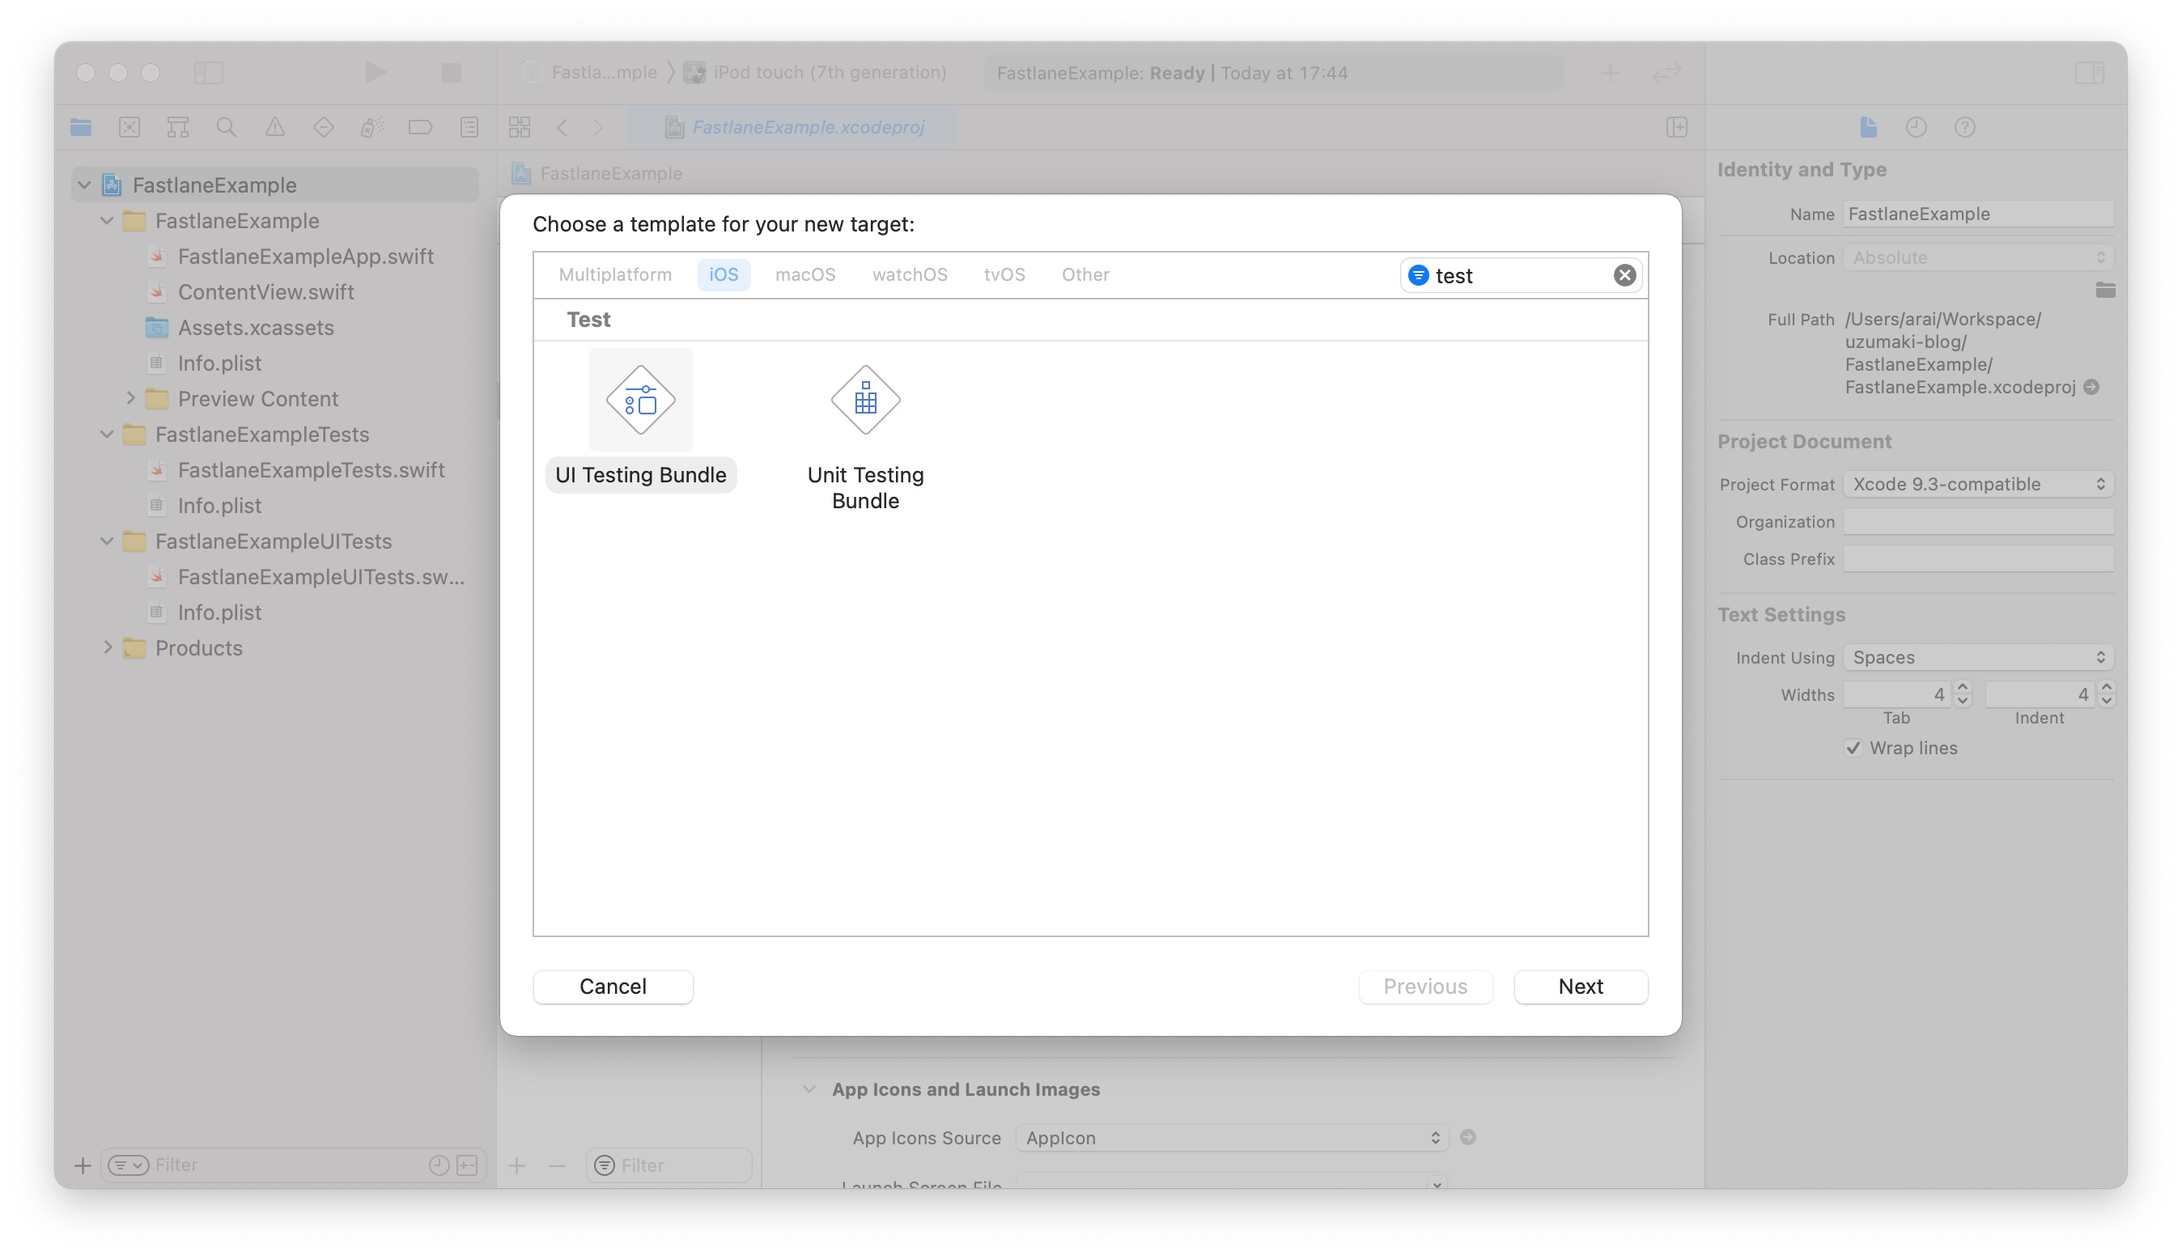
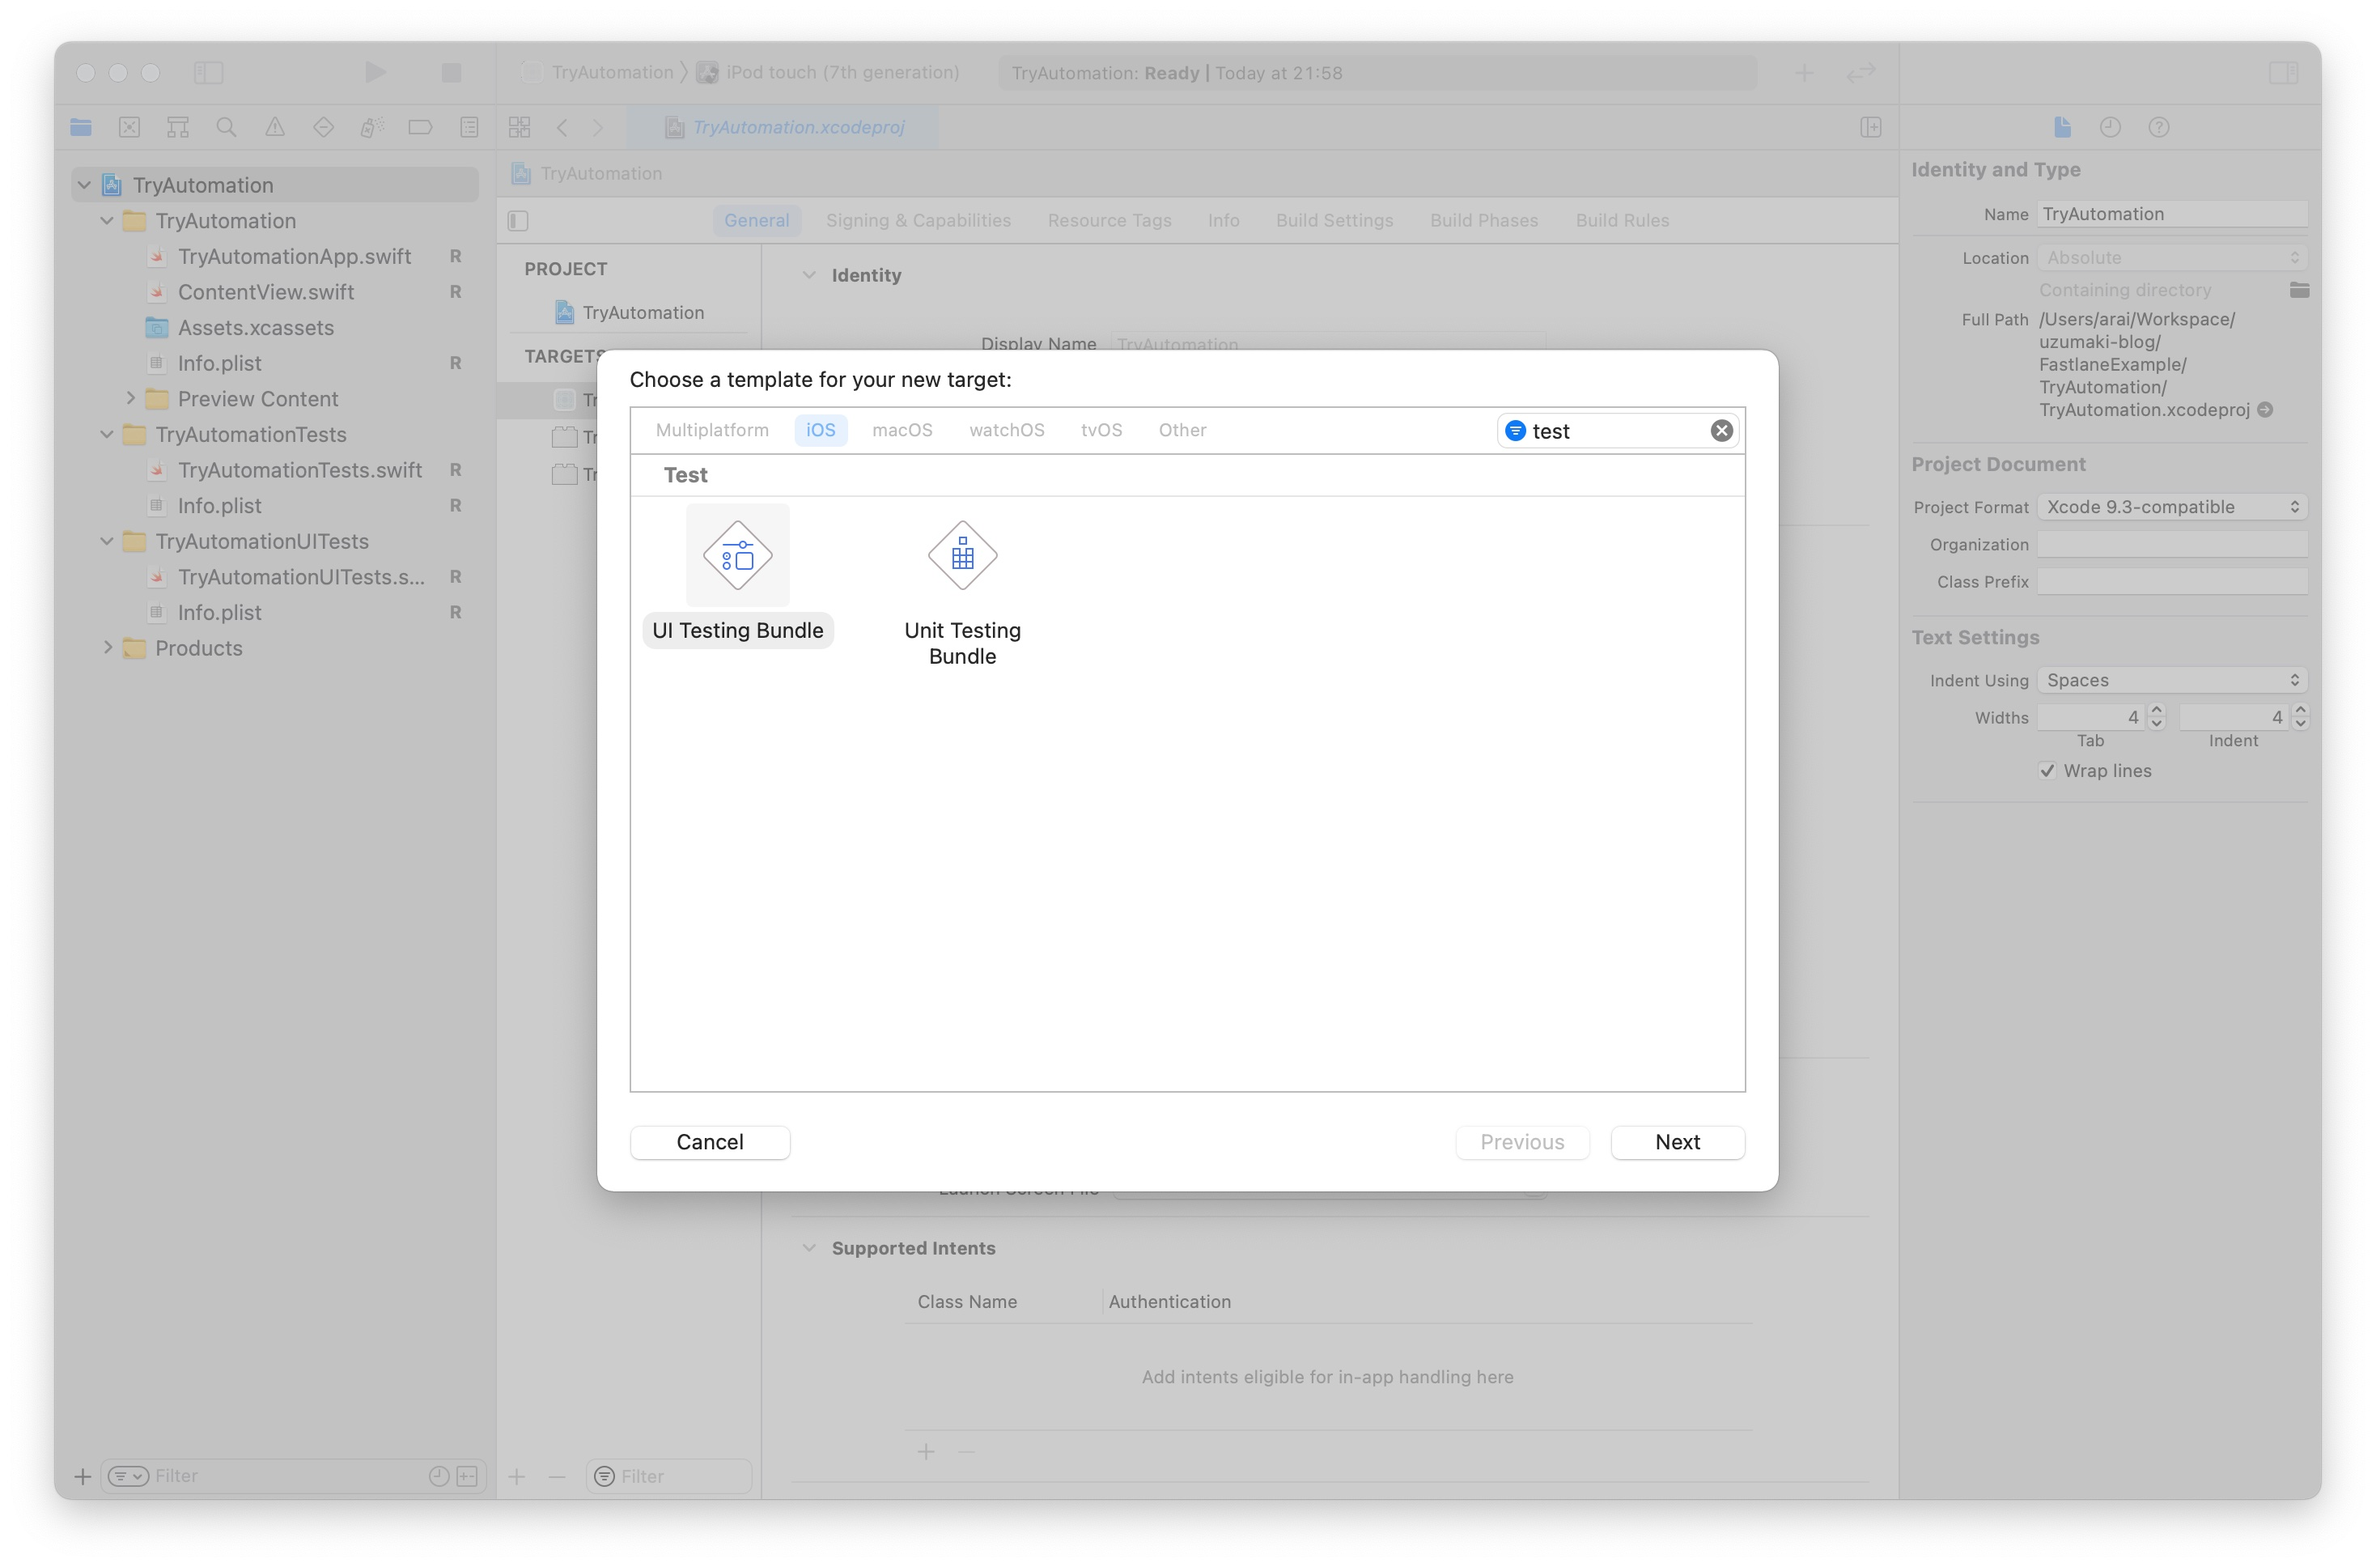
rename xcode project

diff --git a/TryAutomationTests/TryAutomationTests.swift b/TryAutomationTests/TryAutomationTests.swift
@@ -1,14 +1,14 @@
 //
-//  FastlaneExampleTests.swift
-//  FastlaneExampleTests
+//  TryAutomationTests.swift
+//  TryAutomationTests
 //
-//  Created by arai on 2021/09/25.
+//  Created by arai on 2021/10/10.
 //
 
 import XCTest
-@testable import FastlaneExample
+@testable import TryAutomation
 
-class FastlaneExampleTests: XCTestCase {
+class TryAutomationTests: XCTestCase {
 
     override func setUpWithError() throws {
         // Put setup code here. This method is called before the invocation of each test method in the class.

diff --git a/TryAutomationUITests/TryAutomationUITests.swift b/TryAutomationUITests/TryAutomationUITests.swift
@@ -1,13 +1,13 @@
 //
-//  FastlaneExampleUITests.swift
-//  FastlaneExampleUITests
+//  TryAutomationUITests.swift
+//  TryAutomationUITests
 //
-//  Created by arai on 2021/09/25.
+//  Created by arai on 2021/10/10.
 //
 
 import XCTest
 
-class FastlaneExampleUITests: XCTestCase {
+class TryAutomationUITests: XCTestCase {
 
     override func setUpWithError() throws {
         // Put setup code here. This method is called before the invocation of each test method in the class.

diff --git a/TryAutomation/TryAutomationApp.swift b/TryAutomation/TryAutomationApp.swift
@@ -1,14 +1,14 @@
 //
-//  FastlaneExampleApp.swift
-//  FastlaneExample
+//  TryAutomationApp.swift
+//  TryAutomation
 //
-//  Created by arai on 2021/09/25.
+//  Created by arai on 2021/10/10.
 //
 
 import SwiftUI
 
 @main
-struct FastlaneExampleApp: App {
+struct TryAutomationApp: App {
     var body: some Scene {
         WindowGroup {
             ContentView()

diff --git a/TryAutomation/ContentView.swift b/TryAutomation/ContentView.swift
@@ -1,8 +1,8 @@
 //
 //  ContentView.swift
-//  FastlaneExample
+//  TryAutomation
 //
-//  Created by arai on 2021/09/25.
+//  Created by arai on 2021/10/10.
 //
 
 import SwiftUI
